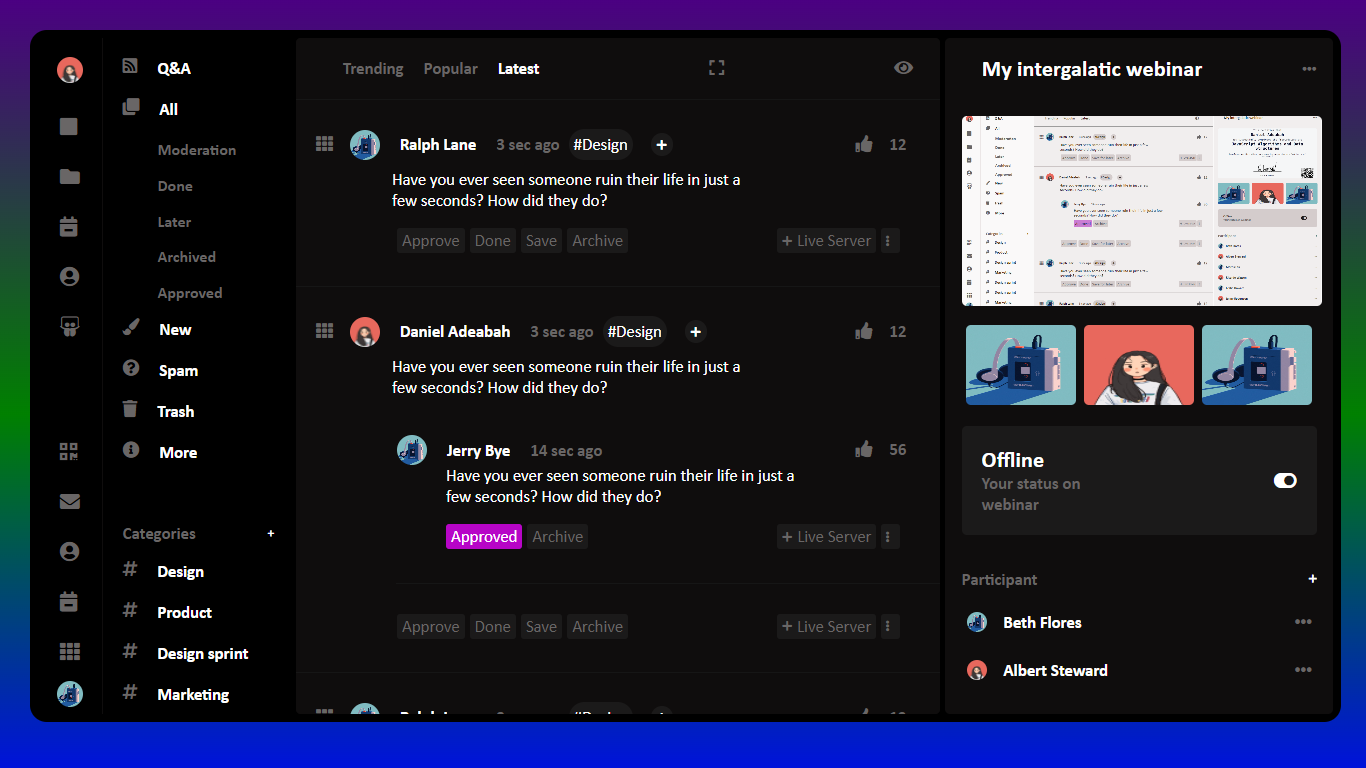
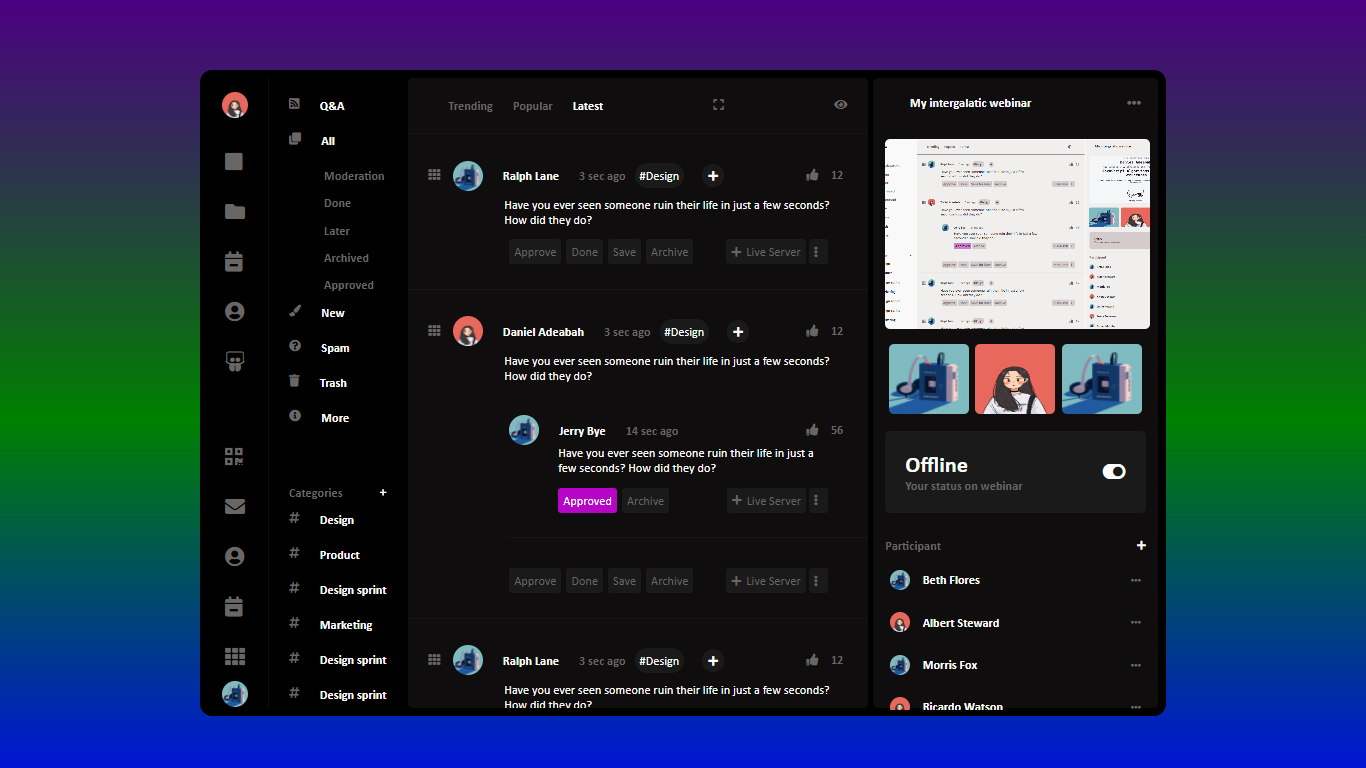
update

diff --git a/assets/css/style.css b/assets/css/style.css
@@ -54,7 +54,7 @@
     
     --sections-height: 82vh;
     --section-one_div-top-margin-bottom: 45px;
-    --section-four-users-container-height: 170px;
+    --section-four-users-container-height: 185px;
     --section-four-video-img-width: 265px;
     --section-four-video-lists-img-width: 80px; 
     --section-three-user-replies-buttons-container-a-margin-left: 55px;
